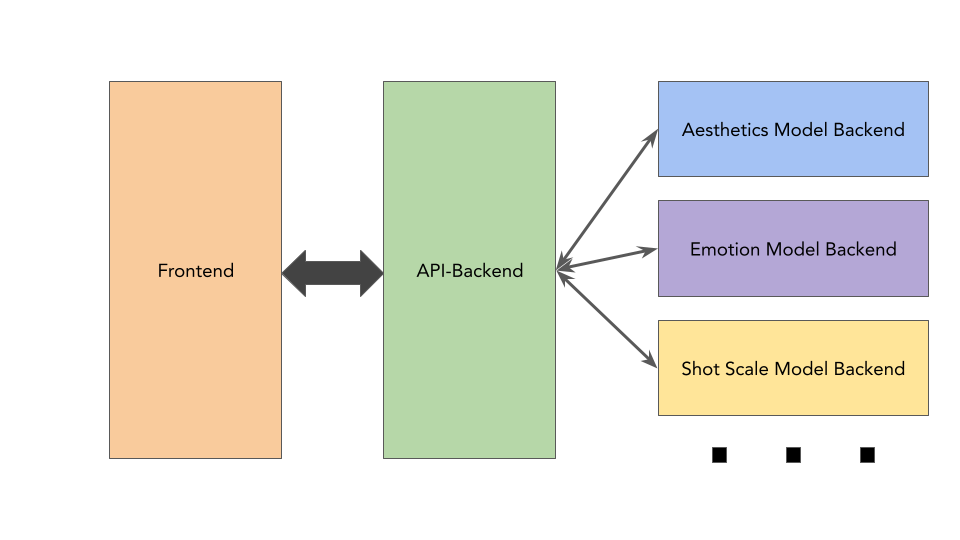
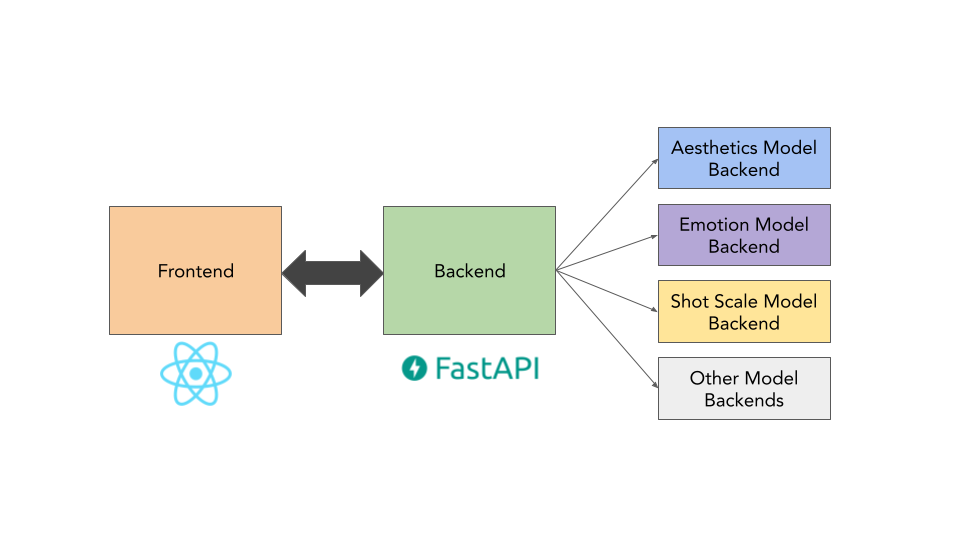
Update

diff --git a/README.md b/README.md
@@ -4,9 +4,9 @@ This repository contains the necessary code to run the Aesthetics demo applicati
 
 ## Run the project
 ![Demo App Architecture](assets/demo_architecture.png)
-According to the architecture depicted above, there are three main blocks. The frontend is the user interface to the users, and queries the API Backend to retrieved the images belonging to a user with the selected filtering criteria. When a user uploads a new image, this is processed by the API backend and sent to each of the model backends to run the predictions on the image. 
+The architecture depicted above is composed of three main blocks. The frontend is the user interface that queries the API Backend to retrieved the images belonging to a user with the selected filtering criteria. When a user uploads a new image, this is processed by the API backend and sent to each of the model backends to run the predictions on the image. 
 
-This design allows for separation of concerns, simplifies adding new models and allow to select the device on which each model is deployed.
+This design allows for separation of concerns, simplifies adding new models and allow to select the device on which each model backend is deployed.
 
 ### Run using docker-compose
 The simplest way to run a project is to build the respective docker images and running them using the following command from the base directory:
@@ -34,7 +34,7 @@ Running locally is usually somewhat inconvenient as the `Config` class requires 
 ## Things to take into account
 
 - Make sure to check out the [front-end README](/front-end/README.md) to configure authentication with Firebase.
-- Then, enable authentication for each backend in the docker-compose files.
+- Then, enable authentication for each backend in the docker-compose files. 
 - The app currently uses the old React front-end. For compatibility reasons, there's a `legacy_routes.py` file containing the routes that the old backend uses. This front-end containes commented code used for functionalities like video support or clustering, which will be again available in the next version of the app.
 - When adding new models, you will have to register a new client in the api-backend and create a new model backend. You may want to add functionalities to the frontend to use the results of this new model as filtering criteria.
 
